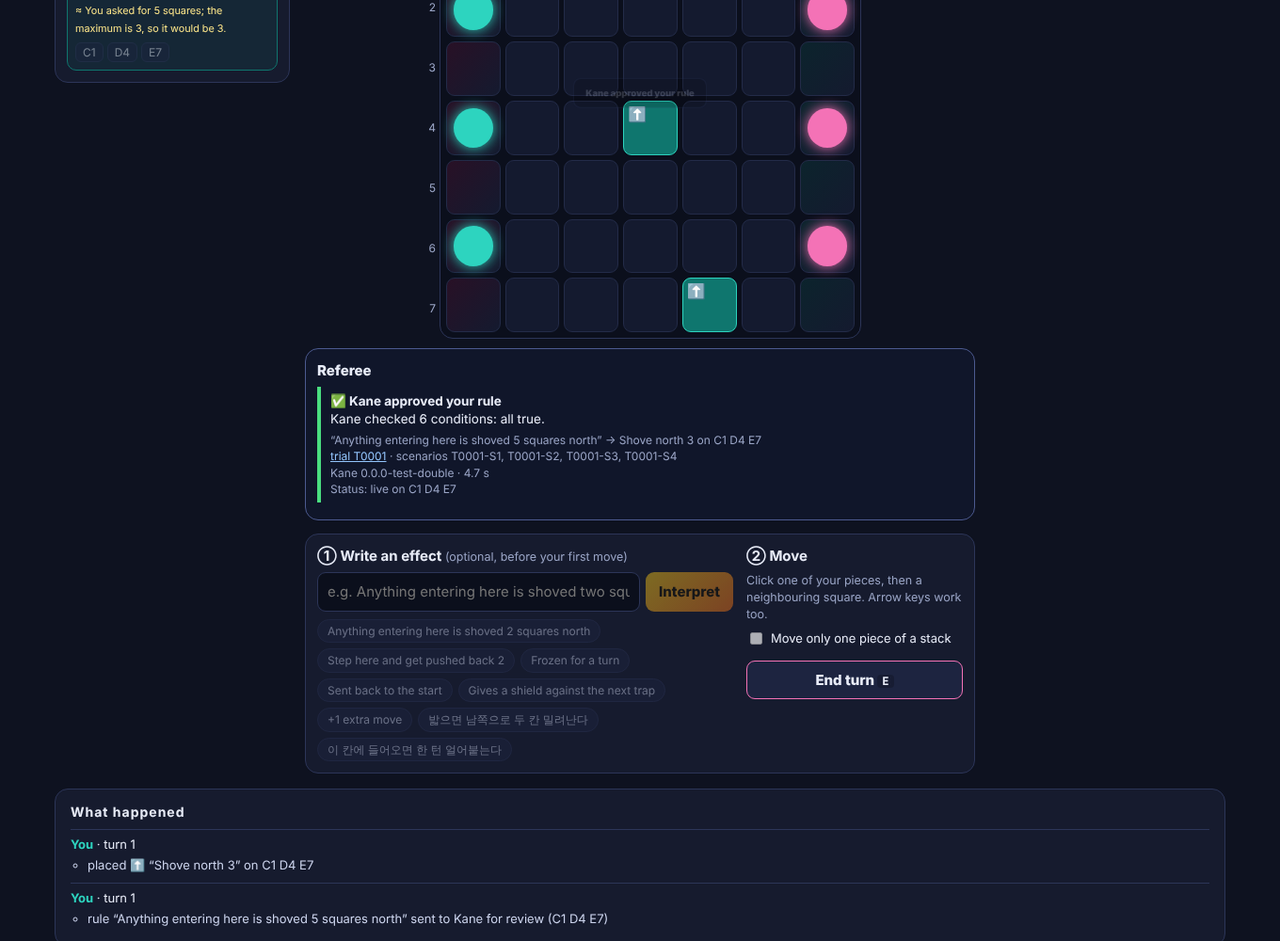
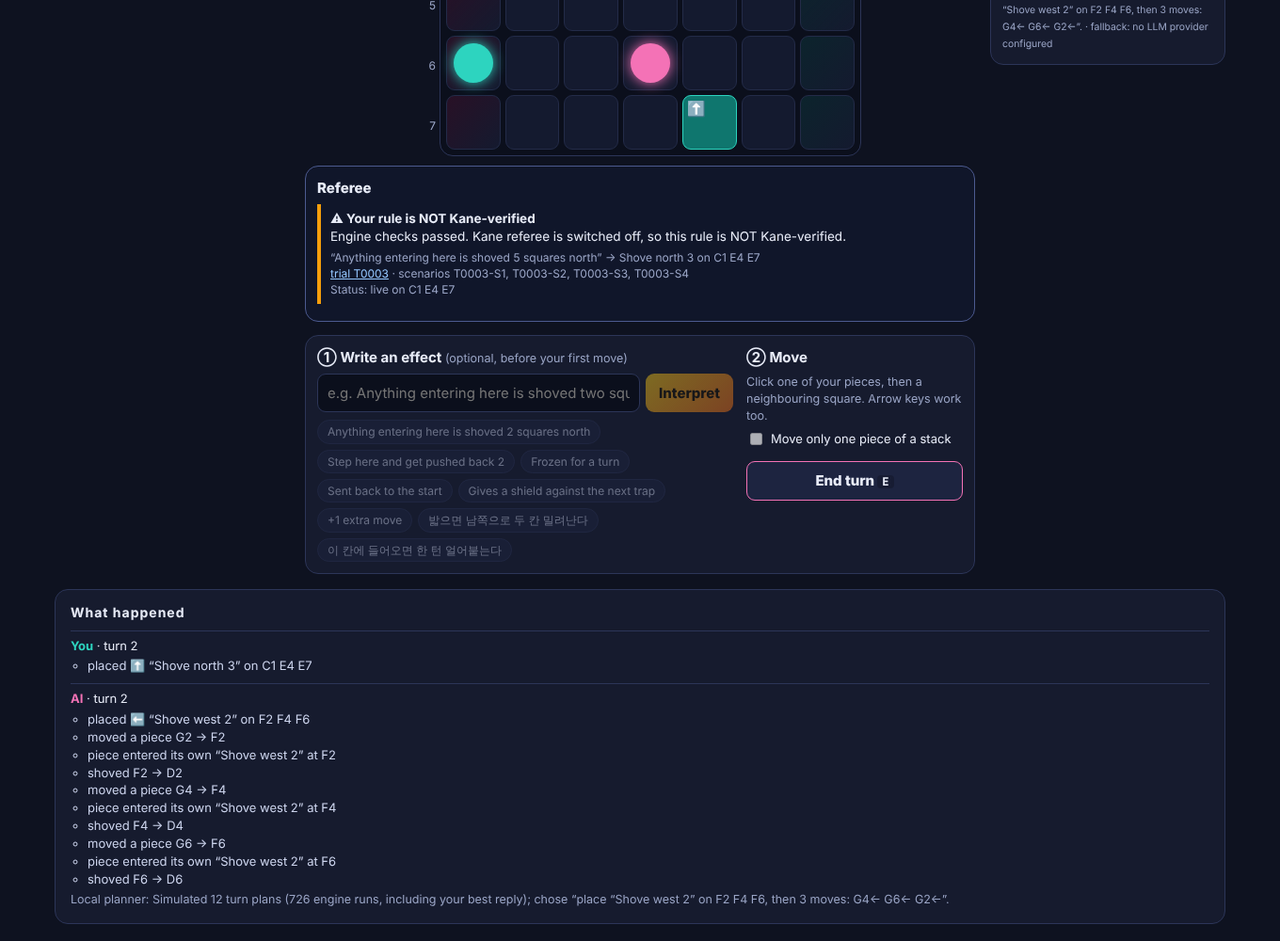
Support NVIDIA's OpenAI-compatible API as the LLM provider
LLM_PROVIDER=nvidia with NVIDIA_API_KEY / NVIDIA_BASE_URL / NVIDIA_MODEL
(default meta/llama-3.3-70b-instruct). The UI, logs and eval report name the
provider actually used. OpenRouter-only parameters are not sent to NVIDIA; any
400/422 on strict structured output retries once with a plain JSON prompt.

Claude-Session: https://claude.ai/code/session_0184c99phZDSeZWibwbJRu2f

diff --git a/server/openrouter.ts b/server/openrouter.ts
@@ -1,15 +1,31 @@
 /**
- * OpenRouter access (server-side only; the key never reaches the browser).
+ * LLM access through an OpenAI-compatible chat API: OpenRouter (default) or NVIDIA's
+ * integrate.api.nvidia.com. Server-side only; keys never reach the browser or the logs.
  * Every reply is treated as untrusted text and validated by the caller.
+ *   LLM_PROVIDER=openrouter|nvidia  (default: openrouter if OPENROUTER_API_KEY is set, else nvidia if NVIDIA_API_KEY is set)
  */
 import { appendFile, mkdir } from 'node:fs/promises';
 import { resolve, dirname } from 'node:path';
 import { INTERPRET_SCHEMA, EFFECT_KINDS } from './rules.ts';
 
-const ENDPOINT = 'https://openrouter.ai/api/v1/chat/completions';
 export const DEFAULT_FREE_MODEL = 'openrouter/free';
-export const modelName = () => process.env.OPENROUTER_MODEL || DEFAULT_FREE_MODEL;
-export const modelConfigured = () => Boolean(process.env.OPENROUTER_API_KEY);
+export const DEFAULT_NVIDIA_MODEL = 'meta/llama-3.3-70b-instruct';
+type Provider = { id: 'openrouter' | 'nvidia'; label: string; endpoint: string; key: string; model: string };
+export function provider(): Provider | null {
+  const want = (process.env.LLM_PROVIDER || '').toLowerCase();
+  const or = process.env.OPENROUTER_API_KEY, nv = process.env.NVIDIA_API_KEY;
+  const pick = want === 'nvidia' || want === 'openrouter' ? want : or ? 'openrouter' : nv ? 'nvidia' : null;
+  if (pick === 'openrouter' && or) return { id: 'openrouter', label: 'OpenRouter', endpoint: 'https://openrouter.ai/api/v1/chat/completions', key: or, model: process.env.OPENROUTER_MODEL || DEFAULT_FREE_MODEL };
+  if (pick === 'nvidia' && nv) {
+    const base = (process.env.NVIDIA_BASE_URL || 'https://integrate.api.nvidia.com/v1').replace(/\/+$/, '');
+    if (!/^https:\/\//.test(base)) return null;
+    return { id: 'nvidia', label: 'NVIDIA', endpoint: `${base}/chat/completions`, key: nv, model: process.env.NVIDIA_MODEL || DEFAULT_NVIDIA_MODEL };
+  }
+  return null;
+}
+export const modelName = () => provider()?.model ?? DEFAULT_FREE_MODEL;
+export const modelConfigured = () => provider() !== null;
+export const providerLabel = () => provider()?.label ?? 'none';
 
 export type FailureKind = 'not_configured' | 'timeout' | 'rate_limited' | 'http_error' | 'network' | 'invalid_json' | 'invalid_reply';
 export class ProviderError extends Error {
@@ -17,11 +33,12 @@ export class ProviderError extends Error {
   constructor(kind: FailureKind, message: string) { super(message); this.name = 'ProviderError'; this.kind = kind; }
 }
 
-export type CallStat = { at: string; task: string; model: string; ok: boolean; ms: number; failure?: FailureKind; detail?: string; structured: boolean };
+export type CallStat = { at: string; provider?: string; task: string; model: string; ok: boolean; ms: number; failure?: FailureKind; detail?: string; structured: boolean };
 export const stats: CallStat[] = [];
 let cooldownUntil = 0;
 
 async function log(stat: CallStat) {
+  stat = { provider: provider()?.id, ...stat };
   stats.push(stat); if (stats.length > 500) stats.shift();
   const file = resolve(process.env.OPENROUTER_LOG || 'evidence/openrouter/calls.ndjson');
   try { await mkdir(dirname(file), { recursive: true }); await appendFile(file, JSON.stringify(stat) + '\n'); } catch { /* logging must never break play */ }
@@ -40,8 +57,9 @@ function extractJSON(content: string): unknown {
 }
 
 export async function chatJSON(task: string, system: string, user: string, schema: object, opts: { temperature?: number; maxTokens?: number; timeoutMs?: number } = {}): Promise<unknown> {
-  const key = process.env.OPENROUTER_API_KEY, model = modelName();
-  if (!key) throw new ProviderError('not_configured', 'OPENROUTER_API_KEY is not set');
+  const prov = provider();
+  if (!prov) throw new ProviderError('not_configured', 'no LLM provider key is set');
+  const { key, model } = prov;
   if (Date.now() < cooldownUntil) throw new ProviderError('rate_limited', `cooling down after a rate limit (${Math.ceil((cooldownUntil - Date.now()) / 1000)}s left)`);
   // First try strict structured output; if the provider rejects the parameter, retry once with plain JSON instructions.
   for (const structured of [true, false]) {
@@ -51,11 +69,12 @@ export async function chatJSON(task: string, system: string, user: string, schem
       const body: Record<string, unknown> = {
         // Free routes often land on reasoning models, which spend the whole token budget thinking and
         // return empty content. Keep reasoning short and leave room for it.
-        model, temperature: opts.temperature ?? 0, max_tokens: Math.max(opts.maxTokens ?? 300, 1500), reasoning: { effort: 'low', exclude: true },
+        model, temperature: opts.temperature ?? 0, max_tokens: Math.max(opts.maxTokens ?? 300, 1500),
         messages: [{ role: 'system', content: structured ? system : `${system}\nReply with ONLY a JSON object matching this JSON Schema, no prose:\n${JSON.stringify(schema)}` }, { role: 'user', content: user }],
       };
+      if (prov.id === 'openrouter') body.reasoning = { effort: 'low', exclude: true };
       if (structured) body.response_format = { type: 'json_schema', json_schema: { name: task.replace(/\W/g, '_'), strict: true, schema } };
-      const res = await fetchImpl(ENDPOINT, {
+      const res = await fetchImpl(prov.endpoint, {
         method: 'POST', signal: ctrl.signal,
         headers: { Authorization: `Bearer ${key}`, 'Content-Type': 'application/json', 'X-Title': 'Rule Sabotage (local game)' },
         body: JSON.stringify(body),
@@ -67,8 +86,8 @@ export async function chatJSON(task: string, system: string, user: string, schem
       }
       if (!res.ok) {
         const text = (await res.text().catch(() => '')).slice(0, 300);
-        if (structured && (res.status === 400 || res.status === 404 || res.status === 422) && /response_format|json_schema|structured|support/i.test(text)) {
-          await log({ at: new Date().toISOString(), task, model, ok: false, ms: Date.now() - t0, failure: 'http_error', detail: `structured output unsupported: HTTP ${res.status}`, structured });
+        if (structured && (res.status === 400 || res.status === 422 || (res.status === 404 && /response_format|json_schema|structured|support/i.test(text)))) {
+          await log({ at: new Date().toISOString(), task, model, ok: false, ms: Date.now() - t0, failure: 'http_error', detail: `structured output refused: HTTP ${res.status}: ${text.slice(0, 120)}`, structured });
           continue;
         }
         throw new ProviderError('http_error', `HTTP ${res.status}: ${text.slice(0, 160)}`);

diff --git a/server/game.ts b/server/game.ts
@@ -12,7 +12,7 @@ import {
   type Player, type Interpretation, PLAYERS, offlineInterpret, parseModelInterpretation, shortLabel, guardText, policyReject, sameEffect, MAX_CELLS_PER_TURN,
 } from './rules.ts';
 import { planTurn, planMoves, aiPhrase, describeTurn, type Plan, type TurnPlan } from './ai.ts';
-import { chatJSON, modelConfigured, modelName, ProviderError, INTERPRET_SYSTEM, INTERPRET_SCHEMA, interpretUserPrompt, OPPONENT_SYSTEM, OPPONENT_SCHEMA } from './openrouter.ts';
+import { chatJSON, modelConfigured, modelName, providerLabel, ProviderError, INTERPRET_SYSTEM, INTERPRET_SCHEMA, interpretUserPrompt, OPPONENT_SYSTEM, OPPONENT_SCHEMA } from './openrouter.ts';
 import { buildTrial, renderTrialPage, KANE_CONDITIONS, type Trial } from './trial.ts';
 import { kaneJudge, kaneConfig, type KaneResult } from './kane.ts';
 import { reactionsFor, achievementsFor, type Achievement } from './flavor.ts';
@@ -22,7 +22,7 @@ export type Verdict = {
   message: string; proposedTurn: number; resolvedTurn: number | null; placedCells: string[]; skippedCells: string[]; trial: Pick<Trial, 'trialId' | 'buildMs' | 'engineChecks'> & { scenarioIds: string[] }; kane: KaneResult | null; activated: boolean;
 };
 export type AIDecision = {
-  source: 'openrouter' | 'local-planner'; model: string | null; fallbackReason: string | null; taunt: string; rationale: string;
+  source: 'openrouter' | 'local-planner'; provider?: string; model: string | null; fallbackReason: string | null; taunt: string; rationale: string;
   plan: { candidates: number; sims: number; ms: number; chosen: string; score: number }; ruleText: string | null; ruleInterpretation: Interpretation | null; decidedAt: string; ms: number;
 };
 type Pending = { token: string; text: string; interpretation: Interpretation; at: number };
@@ -51,7 +51,7 @@ export async function interpretRule(text: string): Promise<{ interpretation: Int
   const k = text.trim().toLowerCase();
   const hit = interpCache.get(k);
   if (hit) return { interpretation: hit, fallback: null, ms: 0 };
-  if (!modelConfigured()) return { interpretation: offlineInterpret(text), fallback: 'OpenRouter not configured: offline parser used', ms: Date.now() - t0 };
+  if (!modelConfigured()) return { interpretation: offlineInterpret(text), fallback: 'no LLM provider configured: offline parser used', ms: Date.now() - t0 };
   try {
     const raw = await chatJSON('interpret_rule', INTERPRET_SYSTEM, interpretUserPrompt(text.trim()), INTERPRET_SCHEMA, { temperature: 0, maxTokens: 200, timeoutMs: 15_000 });
     const interpretation = parseModelInterpretation(raw, text);
@@ -59,7 +59,7 @@ export async function interpretRule(text: string): Promise<{ interpretation: Int
     return { interpretation, fallback: null, ms: Date.now() - t0 };
   } catch (e) {
     const why = e instanceof ProviderError ? `${e.kind}: ${e.message}` : `invalid model output: ${(e as Error).message}`;
-    return { interpretation: offlineInterpret(text), fallback: `OpenRouter failed (${why}); offline parser used`, ms: Date.now() - t0 };
+    return { interpretation: offlineInterpret(text), fallback: `${providerLabel()} failed (${why}); offline parser used`, ms: Date.now() - t0 };
   }
 }
 
@@ -149,7 +149,7 @@ export const getGame = (id: string) => games.get(id);
 export function view(g: Game) {
   return {
     gameId: g.id, ...publicView(g.state), busy: g.busy, refereeMode: g.refereeMode, achievements: g.achievements,
-    model: modelConfigured() ? modelName() : null, legal: legalMoves(g.state, 'human'), maxCells: MAX_CELLS_PER_TURN,
+    model: modelConfigured() ? modelName() : null, provider: modelConfigured() ? providerLabel() : null, legal: legalMoves(g.state, 'human'), maxCells: MAX_CELLS_PER_TURN,
     reviews: g.reviews.slice(-12).map(r => ({ ...r.verdict, events: r.events })),
   };
 }
@@ -239,7 +239,7 @@ export async function decideAI(s: State): Promise<{ decision: AIDecision; plan: 
       decision: { source: 'local-planner' as const, model: null, fallbackReason: reason, taunt: localTaunt(c, s), rationale: `Simulated ${plan.candidates} turn plans (${plan.sims} engine runs, including your best reply); chose “${c.summary}”.`, plan: meta(c), ruleText: null, ruleInterpretation: null, decidedAt: new Date().toISOString(), ms: Date.now() - t0 },
     };
   };
-  if (!modelConfigured()) return local('OpenRouter not configured');
+  if (!modelConfigured()) return local('no LLM provider configured');
   const options = plan.ranked.slice(0, 6);
   const pieceView = (p: Player) => s.pieces.filter(q => q.owner === p).map(q => (q.scored ? 'scored' : cellName(`${q.x},${q.y}`) + (q.frozen ? ' (frozen)' : '')));
   const payload = {
@@ -253,9 +253,9 @@ export async function decideAI(s: State): Promise<{ decision: AIDecision; plan: 
     const chosen = options.find(c => c.id === raw?.choice);
     if (!chosen) throw new ProviderError('invalid_reply', `unknown option ${String(raw?.choice).slice(0, 20)}`);
     const text = chosen.placement ? (typeof raw.ruleText === 'string' && raw.ruleText.trim() ? raw.ruleText.trim().slice(0, 160) : aiPhrase(chosen.placement.effect, s.turn)) : null;
-    return { plan: chosen, text, decision: { source: 'openrouter', model: modelName(), fallbackReason: null, taunt: typeof raw.taunt === 'string' ? raw.taunt.slice(0, 90) : '', rationale: typeof raw.rationale === 'string' ? raw.rationale.slice(0, 240) : '', plan: meta(chosen), ruleText: text, ruleInterpretation: null, decidedAt: new Date().toISOString(), ms: Date.now() - t0 } };
+    return { plan: chosen, text, decision: { source: 'openrouter', provider: providerLabel(), model: modelName(), fallbackReason: null, taunt: typeof raw.taunt === 'string' ? raw.taunt.slice(0, 90) : '', rationale: typeof raw.rationale === 'string' ? raw.rationale.slice(0, 240) : '', plan: meta(chosen), ruleText: text, ruleInterpretation: null, decidedAt: new Date().toISOString(), ms: Date.now() - t0 } };
   } catch (e) {
-    return local(`OpenRouter failed (${e instanceof ProviderError ? `${e.kind}: ${e.message}` : (e as Error).message})`);
+    return local(`${providerLabel()} failed (${e instanceof ProviderError ? `${e.kind}: ${e.message}` : (e as Error).message})`);
   }
 }
 function localTaunt(c: TurnPlan, s: State): string {

diff --git a/scripts/eval-openrouter.ts b/scripts/eval-openrouter.ts
@@ -9,10 +9,10 @@ process.env.RULE_SABOTAGE_NO_LISTEN = '1';
 process.env.KANE_REFEREE = 'off';
 const { interpretRule, decideAI } = await import('../server/game.ts');
 const { planTurn } = await import('../server/ai.ts');
-const { modelConfigured, modelName, stats } = await import('../server/openrouter.ts');
+const { modelConfigured, modelName, providerLabel, stats } = await import('../server/openrouter.ts');
 const { init, applyPlacement, applyMove, endTurn } = await import('../server/engine.ts');
 
-if (!modelConfigured()) { console.log('NOT_RUN: OPENROUTER_API_KEY not set'); process.exit(0); }
+if (!modelConfigured()) { console.log('NOT_RUN: no LLM provider key set (OPENROUTER_API_KEY or NVIDIA_API_KEY)'); process.exit(0); }
 type Case = { text: string; expect: string };
 const KO: Case[] = [
   ['밟으면 두 칸 뒤로 밀려난다', 'shove-back-2'], ['이 칸에 들어온 말은 한 칸 뒤로 튕겨 나간다', 'shove-back-1'], ['밟으면 북쪽으로 두 칸 밀려난다', 'shove-north-2'],
@@ -71,11 +71,11 @@ for (let i = 0; i < 10; i++) {
 void init;
 const sum = (set: string) => { const r = rows.filter(x => x.set === set); return { n: r.length, pass: r.filter(x => x.pass).length, live: r.filter(x => x.live).length, fallback: r.filter(x => x.fallback).length, medianMs: r.map(x => x.ms).sort((a, b) => a - b)[Math.floor(r.length / 2)] }; };
 const calls = stats.length, failures = stats.filter(s => !s.ok);
-const report = { at: new Date().toISOString(), model: modelName(), summary: { ko: sum('ko'), en: sum('en'), reject: sum('reject'), ai: { n: ai.length, openrouter: ai.filter(a => a.source === 'openrouter').length, medianMs: ai.map(a => a.ms).sort((a, b) => a - b)[Math.floor(ai.length / 2)] } }, calls, failures: failures.map(f => ({ task: f.task, kind: f.failure, detail: f.detail })), rows, ai };
+const report = { at: new Date().toISOString(), provider: providerLabel(), model: modelName(), summary: { ko: sum('ko'), en: sum('en'), reject: sum('reject'), ai: { n: ai.length, openrouter: ai.filter(a => a.source === 'openrouter').length, medianMs: ai.map(a => a.ms).sort((a, b) => a - b)[Math.floor(ai.length / 2)] } }, calls, failures: failures.map(f => ({ task: f.task, kind: f.failure, detail: f.detail })), rows, ai };
 await mkdir('evidence/openrouter', { recursive: true });
 const stamp = report.at.replace(/[:.]/g, '-');
 await writeFile(`evidence/openrouter/eval-${stamp}.json`, JSON.stringify(report, null, 2));
-const md = [`# Live OpenRouter evaluation ${report.at}`, '', `Model: \`${report.model}\` · API calls: ${calls} · failed calls: ${failures.length}`, '',
+const md = [`# Live LLM evaluation ${report.at}`, '', `Provider: ${report.provider} · Model: \`${report.model}\` · API calls: ${calls} · failed calls: ${failures.length}`, '',
   '| Set | Cases | Correct | Answered by model | Fell back | Median latency |', '|---|---|---|---|---|---|',
   ...(['ko', 'en', 'reject'] as const).map(k => { const s = report.summary[k]; return `| ${k} | ${s.n} | ${s.pass} | ${s.live} | ${s.fallback} | ${s.medianMs} ms |`; }),
   `| AI turns | ${ai.length} | n/a | ${report.summary.ai.openrouter} | ${ai.length - report.summary.ai.openrouter} | ${report.summary.ai.medianMs} ms |`, '',

diff --git a/client/app.js b/client/app.js
@@ -120,7 +120,7 @@ async function interpret() {
   try {
     const r = await api(`/api/game/${view.gameId}/preview`, { text });
     const i = r.interpretation;
-    const src = i.source === 'openrouter' ? `Interpreted by OpenRouter (${r.ms} ms)` : i.source === 'input-guard' ? 'Blocked by the input guard' : 'Interpreted by the offline parser' + (r.fallback ? ` (${r.fallback})` : '');
+    const src = i.source === 'openrouter' ? `Interpreted by ${view.provider || 'the model'} · ${view.model} (${r.ms} ms)` : i.source === 'input-guard' ? 'Blocked by the input guard' : 'Interpreted by the offline parser' + (r.fallback ? ` (${r.fallback})` : '');
     if (i.status === 'reject') {
       pending = null; picked.clear();
       pv.innerHTML = `<div class="pv-head reject"><span class="pv-icon">⛔</span><div><b>Not allowed</b><p>${esc(i.reason)}</p></div></div><div class="pv-src">${esc(src)}</div>`;
@@ -204,7 +204,7 @@ async function applyAI(ai, finalView) {
   view = finalView;
   logTurn('AI', ai.events.concat(ai.endEvents || []), ai.verdicts, d);
   react(ai.reactions);
-  $('ai-record').innerHTML = `<b>${d.source === 'openrouter' ? `OpenRouter (${esc(d.model)})` : 'Local planner'}</b> chose: ${esc(d.plan.chosen)}<br><small>${esc(d.rationale)}${d.fallbackReason ? ` · fallback: ${esc(d.fallbackReason)}` : ''}</small>`;
+  $('ai-record').innerHTML = `<b>${d.source === 'openrouter' ? `${esc(d.provider || 'LLM')} (${esc(d.model)})` : 'Local planner'}</b> chose: ${esc(d.plan.chosen)}<br><small>${esc(d.rationale)}${d.fallbackReason ? ` · fallback: ${esc(d.fallbackReason)}` : ''}</small>`;
   $('ai-lock').textContent = '';
 }
 
@@ -317,7 +317,7 @@ function logTurn(by, events, verdicts = [], decision = null) {
   }
   if (!lines.length) return;
   const li = document.createElement('li');
-  li.innerHTML = `<b class="${by === 'You' ? 'h' : 'a'}">${by}</b> · turn ${view.turn}<ul>${lines.map(l => `<li>${esc(l)}</li>`).join('')}</ul>` + (decision ? `<div class="ai-record">${esc(decision.source === 'openrouter' ? 'OpenRouter' : 'Local planner')}: ${esc(decision.rationale)}</div>` : '');
+  li.innerHTML = `<b class="${by === 'You' ? 'h' : 'a'}">${by}</b> · turn ${view.turn}<ul>${lines.map(l => `<li>${esc(l)}</li>`).join('')}</ul>` + (decision ? `<div class="ai-record">${esc(decision.source === 'openrouter' ? (decision.provider || 'LLM') : 'Local planner')}: ${esc(decision.rationale)}</div>` : '');
   $('log').prepend(li);
 }
 
@@ -352,7 +352,7 @@ async function loadHealth() {
   try {
     const h = await api('/api/health');
     const b = $('brain-chip'), r = $('referee-chip');
-    b.textContent = h.openrouter.configured ? `AI brain: OpenRouter (${h.openrouter.model})` : 'AI brain: local planner (OpenRouter off)';
+    b.textContent = h.openrouter.configured ? `AI brain: ${h.openrouter.provider} (${h.openrouter.model})` : 'AI brain: local planner (no LLM key)';
     b.classList.add(h.openrouter.configured ? 'on' : 'off');
     const k = h.referee.kane;
     r.textContent = h.referee.mode === 'kane' ? (k.installed && k.loggedIn !== false ? `Referee: Kane ${k.version || ''}` : 'Referee: Kane (unavailable, rules stay unverified)') : 'Referee: engine only (NOT Kane-verified)';

diff --git a/tests/game.test.ts b/tests/game.test.ts
@@ -17,6 +17,8 @@ process.env.KANE_EVIDENCE_DIR = join(tmp, 'kane');
 process.env.OPENROUTER_LOG = join(tmp, 'or.ndjson');
 process.env.KANE_REFEREE = 'off';
 delete process.env.OPENROUTER_API_KEY;
+delete process.env.NVIDIA_API_KEY;
+delete process.env.LLM_PROVIDER;
 
 const { newGame, startGame, preview, placeHuman, moveHuman, endHumanTurn, interpretRule, view, decideAI } = await import('../server/game.ts');
 const { setFetch } = await import('../server/openrouter.ts');
@@ -27,10 +29,10 @@ const { server } = await import('../server/server.ts');
 const { buildTrial, renderTrialPage, KANE_CONDITIONS } = await import('../server/trial.ts');
 const { makeEffect } = await import('../server/rules.ts');
 
-const mockFetch = (handler: (body: any) => { status?: number; json?: unknown; text?: string; headers?: Record<string, string> } | 'hang') =>
+const mockFetch = (handler: (body: any, url?: string) => { status?: number; json?: unknown; text?: string; headers?: Record<string, string> } | 'hang') =>
   setFetch((async (_url: unknown, init?: { body?: string; signal?: AbortSignal }) => {
     const body = JSON.parse(String(init?.body ?? '{}'));
-    const r = handler(body);
+    const r = handler(body, String(_url));
     if (r === 'hang') return new Promise((_, rej) => init?.signal?.addEventListener('abort', () => rej(Object.assign(new Error('aborted'), { name: 'AbortError' }))));
     return new Response(r.text ?? JSON.stringify(r.json ?? {}), { status: r.status ?? 200, headers: r.headers });
   }) as typeof fetch);
@@ -155,6 +157,24 @@ test('OpenRouter (mocked): structured-output rejection or an empty reply retries
   assert.equal(calls, 2);
   assert.equal(r2.interpretation.source, 'openrouter');
   delete process.env.OPENROUTER_API_KEY;
+});
+
+test('NVIDIA provider (mocked): OpenAI-compatible endpoint, labelled, no OpenRouter-only parameters, key never in the body', async () => {
+  process.env.NVIDIA_API_KEY = 'nv-test-key-not-real';
+  process.env.NVIDIA_BASE_URL = 'https://integrate.api.nvidia.com/v1';
+  let url = '', body: any = null;
+  mockFetch((b, u) => { url = u!; body = b; return reply({ status: 'ok', kind: 'haste', dir: 'none', amount: 1, note: '' }); });
+  const { providerLabel, modelName } = await import('../server/openrouter.ts');
+  assert.equal(providerLabel(), 'NVIDIA');
+  assert.equal(modelName(), 'meta/llama-3.3-70b-instruct');
+  const r = await interpretRule('mock nvidia: one more move');
+  assert.equal(url, 'https://integrate.api.nvidia.com/v1/chat/completions');
+  assert.equal(body.reasoning, undefined);
+  assert.ok(!JSON.stringify(body).includes('nv-test-key'));
+  assert.equal(r.interpretation.source, 'openrouter');
+  process.env.NVIDIA_BASE_URL = 'http://insecure.example/v1';
+  assert.equal(providerLabel(), 'none', 'non-https base URL is refused');
+  delete process.env.NVIDIA_API_KEY; delete process.env.NVIDIA_BASE_URL;
 });
 
 test('OpenRouter (mocked) opponent: unknown option ids are refused and the local planner takes over', async () => {

diff --git a/server/server.ts b/server/server.ts
@@ -4,7 +4,7 @@ import { readFile } from 'node:fs/promises';
 import { resolve, extname, sep } from 'node:path';
 import { fileURLToPath } from 'node:url';
 import { startGame, getGame, view, preview, placeHuman, moveHuman, endHumanTurn, trials, refereeMode } from './game.ts';
-import { modelConfigured, modelName, stats } from './openrouter.ts';
+import { modelConfigured, modelName, providerLabel, stats } from './openrouter.ts';
 import { kaneProbe, kaneConfig } from './kane.ts';
 
 const HOST = process.env.HOST || '127.0.0.1', PORT = Number(process.env.PORT || 3000);
@@ -36,7 +36,7 @@ async function api(req: IncomingMessage, res: ServerResponse, path: string) {
     const k = await kaneProbe();
     const recent = stats.slice(-50);
     return json(res, 200, {
-      openrouter: { configured: modelConfigured(), model: modelConfigured() ? modelName() : null, recentCalls: recent.length, recentFailures: recent.filter(s => !s.ok).length },
+      openrouter: { configured: modelConfigured(), provider: modelConfigured() ? providerLabel() : null, model: modelConfigured() ? modelName() : null, recentCalls: recent.length, recentFailures: recent.filter(s => !s.ok).length },
       referee: { mode: refereeMode(), kane: k, kaneMode: kaneConfig().mode, timeoutS: kaneConfig().timeoutS, allowUnverified: process.env.ALLOW_UNVERIFIED_RULES === '1' },
       authority: 'server',
     });
@@ -110,7 +110,7 @@ if (process.env.RULE_SABOTAGE_NO_LISTEN !== '1') {
   server.listen(PORT, HOST, async () => {
     const k = await kaneProbe();
     console.log(`Rule Sabotage on http://${HOST}:${PORT}`);
-    console.log(`  OpenRouter: ${modelConfigured() ? `configured (${modelName()})` : 'NOT configured -> offline parser + local planner (labelled in UI)'}`);
+    console.log(`  LLM:        ${modelConfigured() ? `${providerLabel()} (${modelName()})` : 'NOT configured -> offline parser + local planner (labelled in UI)'}`);
     console.log(`  Referee:    ${refereeMode() === 'kane' ? `Kane (${k.detail})` : 'engine-only (KANE_REFEREE=off)'}`);
   });
 }

diff --git a/tests/browser/e2e.ts b/tests/browser/e2e.ts
@@ -15,7 +15,7 @@ const shots = process.env.SHOTS_DIR || `${root}evidence/browser`;
 mkdirSync(shots, { recursive: true });
 const port = 3200 + Math.floor(Math.random() * 500);
 const useDouble = process.env.KANE_DOUBLE === '1';
-const env = { ...process.env, PORT: String(port), OPENROUTER_API_KEY: '', KANE_REFEREE: useDouble ? 'on' : 'off', KANE_CLI: `${root}tests/fixtures/fake-kane.mjs`, KANE_CHROME: process.env.KANE_CHROME || '/opt/pw-browsers/chromium', KANE_EVIDENCE_DIR: '/tmp/rs-e2e-kane' };
+const env = { ...process.env, PORT: String(port), OPENROUTER_API_KEY: '', NVIDIA_API_KEY: '', KANE_REFEREE: useDouble ? 'on' : 'off', KANE_CLI: `${root}tests/fixtures/fake-kane.mjs`, KANE_CHROME: process.env.KANE_CHROME || '/opt/pw-browsers/chromium', KANE_EVIDENCE_DIR: '/tmp/rs-e2e-kane' };
 const srv = spawn(process.execPath, ['--experimental-strip-types', '--no-warnings=ExperimentalWarning', 'server/server.ts'], { cwd: root, env, stdio: ['ignore', 'pipe', 'pipe'] });
 await new Promise<void>((res, rej) => { srv.stdout.on('data', (d: Buffer) => { if (String(d).includes('Rule Sabotage on')) res(); }); setTimeout(() => rej(new Error('server did not start')), 15000); });
 

diff --git a/README.md b/README.md
@@ -37,6 +37,8 @@ With no configuration the game runs fully offline: an offline parser reads rules
 cp .env.example .env
 # OPENROUTER_API_KEY=sk-or-...   (server-side only; never sent to the browser)
 # OPENROUTER_MODEL=openrouter/free   (free pool; for a reliable demo pin one specific model)
+# or NVIDIA's OpenAI-compatible API instead:
+# LLM_PROVIDER=nvidia  NVIDIA_API_KEY=nvapi-...  NVIDIA_MODEL=meta/llama-3.3-70b-instruct
 npm i -g @testmuai/kane-cli && kane-cli login     # Kane referee
 npm start
 ```
